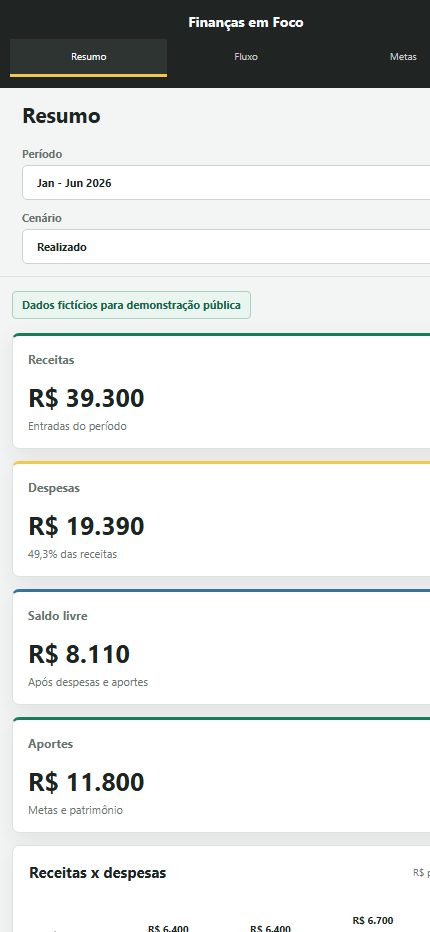
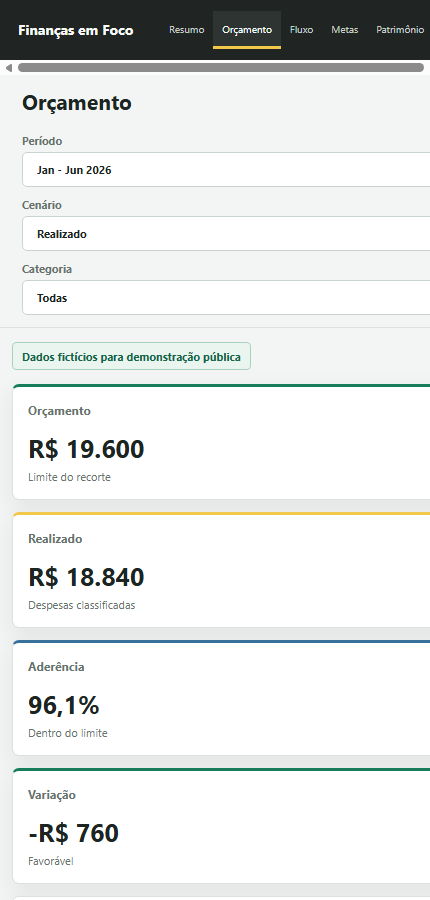
feat: ampliar experiencia do dashboard financeiro

Changed region(s): [[0.0, 0.0, 1.0, 1.0]]

diff --git a/demo/dashboard_demo.html b/demo/dashboard_demo.html
@@ -434,6 +434,41 @@
       font-size: 21px;
     }
     .allocation-item span { color: var(--muted); font-size: 11px; }
+    .subtle { color: var(--muted); font-size: 12px; }
+    .budget-list { display: grid; gap: 15px; }
+    .budget-row { display: grid; grid-template-columns: minmax(130px, 1.2fr) 3fr 92px; gap: 12px; align-items: center; }
+    .budget-row strong { font-size: 12px; }
+    .budget-track { height: 12px; overflow: hidden; border-radius: 3px; background: #e3e8e5; }
+    .budget-fill { height: 100%; background: var(--green); }
+    .budget-fill.warn { background: var(--yellow); }
+    .budget-fill.bad { background: var(--red); }
+    .budget-value { text-align: right; font-size: 12px; font-weight: 750; }
+    .metric-table { width: 100%; border-collapse: collapse; font-size: 12px; }
+    .metric-table th { padding: 10px 9px; color: var(--muted); border-bottom: 1px solid var(--line); text-align: left; }
+    .metric-table td { padding: 11px 9px; border-bottom: 1px solid var(--line); }
+    .metric-table tr:hover td { background: #f7faf8; }
+    .status { display: inline-flex; padding: 3px 7px; border-radius: 3px; color: #126047; background: var(--green-soft); font-size: 10px; font-weight: 750; }
+    .status.warn { color: #795d00; background: #fff2bd; }
+    .status.bad { color: #8c3333; background: #f7dede; }
+    .wealth-grid { display: grid; grid-template-columns: repeat(3, minmax(130px, 1fr)); gap: 10px; }
+    .wealth-item { padding: 14px; border: 1px solid var(--line); border-left: 4px solid var(--tone, var(--green)); border-radius: 5px; background: var(--light); }
+    .wealth-item span { color: var(--muted); font-size: 11px; }
+    .wealth-item strong { display: block; margin-top: 6px; font-size: 19px; }
+    .line-box { min-width: 620px; height: 248px; position: relative; border-bottom: 1px solid var(--line); }
+    .line-box svg { width: 100%; height: 210px; overflow: visible; }
+    .line-grid { stroke: #dce2df; stroke-width: 1; }
+    .line-segment { stroke: var(--green); stroke-width: 3; }
+    .line-point { fill: #fff; stroke: var(--green); stroke-width: 3; }
+    .line-label { fill: var(--text); font-size: 11px; font-weight: 700; }
+    .line-months { display: grid; grid-template-columns: repeat(6, 1fr); color: var(--muted); font-size: 11px; text-align: center; }
+    .comparison-strip { display: grid; grid-template-columns: 1.1fr repeat(3, 1fr); gap: 1px; margin-bottom: 14px; overflow: hidden; border: 1px solid var(--line); border-radius: 6px; background: var(--line); }
+    .comparison-strip > div { padding: 13px 15px; background: #fff; }
+    .comparison-strip .comparison-title { display: grid; align-content: center; color: #fff; background: var(--surface-dark); font-weight: 750; }
+    .comparison-strip span { display: block; color: var(--muted); font-size: 10px; text-transform: uppercase; }
+    .comparison-strip strong { display: block; margin-top: 5px; font-size: 17px; }
+    .delta-up { color: var(--green); }
+    .delta-down { color: var(--red); }
+    .filter select { cursor: pointer; }
     [hidden] { display: none !important; }
     @media (max-width: 1050px) {
       .kpis { grid-template-columns: repeat(2, 1fr); }
@@ -446,15 +481,18 @@
         z-index: 30;
         width: 100%;
         height: auto;
-        display: grid;
-        grid-template-columns: 1fr repeat(3, auto);
+        display: flex;
         align-items: center;
         padding: 8px 10px;
+        overflow-x: auto;
+        scrollbar-width: none;
       }
-      .brand { padding: 5px 8px; font-size: 14px; }
+      .side::-webkit-scrollbar { display: none; }
+      .brand { min-width: 170px; padding: 5px 8px; font-size: 14px; }
       .brand small, .side-note { display: none; }
       .nav {
         width: auto;
+        flex: 0 0 auto;
         min-height: 38px;
         padding: 8px 9px;
         border-left: 0;
@@ -472,16 +510,20 @@
       .donut-wrap { grid-template-columns: 1fr; justify-items: center; }
       .category-list { width: 100%; }
       .allocation { grid-template-columns: 1fr; }
+      .wealth-grid { grid-template-columns: 1fr 1fr; }
+      .comparison-strip { grid-template-columns: 1fr 1fr; }
+      .comparison-strip .comparison-title { grid-column: 1 / -1; }
     }
     @media (max-width: 600px) {
-      .side { grid-template-columns: repeat(3, 1fr); }
-      .brand { grid-column: 1 / -1; text-align: center; }
+      .brand { min-width: 150px; text-align: left; }
       .filters { flex-direction: column; align-items: stretch; }
       .kpis { grid-template-columns: 1fr; }
       .kpi { min-height: 96px; }
       .monthly-chart { min-width: 620px; }
       .scroll-x { overflow-x: auto; }
       .transactions { min-width: 640px; }
+      .budget-row { grid-template-columns: minmax(100px, 1fr) 1.5fr 78px; gap: 7px; }
+      .wealth-grid { grid-template-columns: 1fr; }
     }
   </style>
 </head>
@@ -490,8 +532,11 @@
     <aside class="side">
       <div class="brand">Finanças em Foco<small>DEMONSTRAÇÃO ANALÍTICA</small></div>
       <button class="nav active" data-view="resumo">Resumo</button>
+      <button class="nav" data-view="orcamento">Orçamento</button>
       <button class="nav" data-view="fluxo">Fluxo</button>
       <button class="nav" data-view="metas">Metas</button>
+      <button class="nav" data-view="patrimonio">Patrimônio</button>
+      <button class="nav" data-view="comparativo">Comparativo</button>
       <div class="side-note">Projeto demonstrativo com dados integralmente fictícios.</div>
     </aside>
 
@@ -514,6 +559,16 @@
             <select id="scenario">
               <option value="REALIDADE">Realizado</option>
               <option value="EXPECTATIVA">Planejado</option>
+            </select>
+          </label>
+          <label class="filter">Categoria
+            <select id="categoryFilter">
+              <option value="todas">Todas</option>
+              <option value="Moradia">Moradia</option>
+              <option value="Alimentação">Alimentação</option>
+              <option value="Transporte">Transporte</option>
+              <option value="Saúde e bem-estar">Saúde e bem-estar</option>
+              <option value="Outros">Outros</option>
             </select>
           </label>
         </div>
@@ -553,6 +608,25 @@
           </div>
         </section>
 
+        <section class="view" id="orcamento" hidden>
+          <div class="kpis" id="budgetKpis"></div>
+          <div class="grid">
+            <article class="panel">
+              <div class="panel-head"><h2>Orçamento por categoria</h2><span>realizado sobre o limite</span></div>
+              <div class="budget-list" id="budgetList"></div>
+            </article>
+            <article class="panel">
+              <div class="panel-head"><h2>Aderência mensal</h2><span>orçado x realizado</span></div>
+              <div class="scroll-x"><div class="monthly-chart" id="budgetChart"></div></div>
+              <div class="legend"><span><i class="dot" style="background:var(--green)"></i>Orçado</span><span><i class="dot" style="background:var(--yellow)"></i>Realizado</span></div>
+            </article>
+          </div>
+          <article class="panel">
+            <div class="panel-head"><h2>Mapa de variações</h2><span>priorização para decisão</span></div>
+            <div class="scroll-x"><table class="metric-table"><thead><tr><th>Categoria</th><th class="num">Orçado</th><th class="num">Realizado</th><th class="num">Variação</th><th>Status</th></tr></thead><tbody id="budgetTable"></tbody></table></div>
+          </article>
+        </section>
+
         <section class="view" id="fluxo" hidden>
           <div class="kpis" id="flowKpis"></div>
           <article class="panel">
@@ -576,6 +650,39 @@
             <article class="panel">
               <div class="panel-head"><h2>Aportes por objetivo</h2><span>R$ acumulado</span></div>
               <div class="monthly-chart" id="goalBars"></div>
+            </article>
+          </div>
+        </section>
+
+        <section class="view" id="patrimonio" hidden>
+          <div class="kpis" id="wealthKpis"></div>
+          <div class="grid">
+            <article class="panel">
+              <div class="panel-head"><h2>Evolução patrimonial</h2><span>saldo acumulado</span></div>
+              <div class="scroll-x" id="wealthTrend"></div>
+            </article>
+            <article class="panel">
+              <div class="panel-head"><h2>Alocação por classe</h2><span>composição atual</span></div>
+              <div class="wealth-grid" id="wealthAllocation"></div>
+            </article>
+          </div>
+          <article class="panel">
+            <div class="panel-head"><h2>Posições consolidadas</h2><span>carteira demonstrativa</span></div>
+            <div class="scroll-x"><table class="metric-table"><thead><tr><th>Classe</th><th>Objetivo</th><th class="num">Saldo</th><th class="num">Participação</th><th>Liquidez</th></tr></thead><tbody id="wealthTable"></tbody></table></div>
+          </article>
+        </section>
+
+        <section class="view" id="comparativo" hidden>
+          <div class="comparison-strip" id="comparisonStrip"></div>
+          <div class="kpis" id="comparisonKpis"></div>
+          <div class="grid equal">
+            <article class="panel">
+              <div class="panel-head"><h2>Resultado mês a mês</h2><span>receitas menos despesas</span></div>
+              <div class="scroll-x"><div class="monthly-chart" id="resultChart"></div></div>
+            </article>
+            <article class="panel">
+              <div class="panel-head"><h2>Taxa de poupança</h2><span>percentual da receita</span></div>
+              <div class="scroll-x" id="savingTrend"></div>
             </article>
           </div>
         </section>
@@ -622,6 +729,20 @@
       {name:"Viagem", target:8000, actual:4200},
       {name:"Especialização", target:5000, actual:3150}
     ];
+    const budget = [
+      {name:"Moradia", planned:6900, actual:6400},
+      {name:"Alimentação", planned:4500, actual:4680},
+      {name:"Transporte", planned:3900, actual:3540},
+      {name:"Saúde e bem-estar", planned:2200, actual:2480},
+      {name:"Outros", planned:2100, actual:1740}
+    ];
+    const wealth = [
+      {name:"Reserva líquida", objective:"Emergência", value:7350, liquidity:"Imediata", color:"#167d5a"},
+      {name:"Renda fixa", objective:"Médio prazo", value:11680, liquidity:"D+1", color:"#39719d"},
+      {name:"Renda variável", objective:"Longo prazo", value:6240, liquidity:"D+2", color:"#f2c84b"},
+      {name:"Metas dedicadas", objective:"Projetos", value:7350, liquidity:"Programada", color:"#8d9993"}
+    ];
+    const wealthHistory = [23500, 25100, 26800, 28700, 30600, 32620];
     const brl = value => new Intl.NumberFormat("pt-BR", {style:"currency", currency:"BRL", maximumFractionDigits:0}).format(value);
     const pct = value => new Intl.NumberFormat("pt-BR", {style:"percent", maximumFractionDigits:1}).format(value || 0);
     const sum = (rows, key) => rows.reduce((total, row) => total + row[key], 0);
@@ -710,6 +831,75 @@
           style="height:${row.actual / max * 100}%" title="${row.name}: ${brl(row.actual)}"><span>${brl(row.actual)}</span></div>
         </div><div class="month-label">${row.name}</div></div>`).join("");
     }
+    function lineChart(values, labels, formatter) {
+      const width = 680, height = 190, padX = 42, padY = 28;
+      const min = Math.min(...values), max = Math.max(...values, min + 1);
+      const points = values.map((value, index) => ({
+        value,
+        x: padX + index * ((width - padX * 2) / Math.max(values.length - 1, 1)),
+        y: height - padY - ((value - min) / (max - min)) * (height - padY * 2)
+      }));
+      const segments = points.slice(1).map((point, index) => `<line class="line-segment" x1="${points[index].x}" y1="${points[index].y}" x2="${point.x}" y2="${point.y}"></line>`).join("");
+      return `<div class="line-box"><svg viewBox="0 0 ${width} ${height}" role="img" aria-label="Evolução mensal">
+        <line class="line-grid" x1="${padX}" y1="45" x2="${width-padX}" y2="45"></line>
+        <line class="line-grid" x1="${padX}" y1="95" x2="${width-padX}" y2="95"></line>
+        <line class="line-grid" x1="${padX}" y1="145" x2="${width-padX}" y2="145"></line>${segments}
+        ${points.map(point => `<circle class="line-point" cx="${point.x}" cy="${point.y}" r="5"></circle><text class="line-label" x="${point.x}" y="${Math.max(14, point.y-13)}" text-anchor="middle">${formatter(point.value)}</text>`).join("")}
+      </svg><div class="line-months">${labels.map(label => `<span>${label}</span>`).join("")}</div></div>`;
+    }
+    function renderBudget() {
+      const selected = document.querySelector("#categoryFilter").value;
+      const rows = selected === "todas" ? budget : budget.filter(row => row.name === selected);
+      const plannedTotal = sum(rows, "planned"), actualTotal = sum(rows, "actual"), variance = actualTotal - plannedTotal;
+      const adherence = plannedTotal ? actualTotal / plannedTotal : 0;
+      document.querySelector("#budgetKpis").innerHTML =
+        kpi("Orçamento", brl(plannedTotal), "Limite do recorte") +
+        kpi("Realizado", brl(actualTotal), "Despesas classificadas", "yellow") +
+        kpi("Aderência", pct(adherence), adherence > 1 ? "Acima do limite" : "Dentro do limite", adherence > 1 ? "red" : "blue") +
+        kpi("Variação", brl(variance), variance > 0 ? "Desfavorável" : "Favorável", variance > 0 ? "red" : "");
+      document.querySelector("#budgetList").innerHTML = rows.map(row => {
+        const rate = row.actual / row.planned;
+        return `<div class="budget-row"><strong>${row.name}</strong><div class="budget-track"><div class="budget-fill ${rate > 1.08 ? "bad" : rate > 1 ? "warn" : ""}" style="width:${Math.min(100,rate*100)}%"></div></div><div class="budget-value">${pct(rate)}</div></div>`;
+      }).join("");
+      const monthlyBudget = monthly.map(row => row.expense * .97);
+      const max = Math.max(...monthly.flatMap((row, index) => [row.expense, monthlyBudget[index]]));
+      document.querySelector("#budgetChart").innerHTML = monthly.map((row,index) => `<div class="month"><div class="bars"><div class="bar income" style="height:${monthlyBudget[index]/max*100}%"><span>${brl(monthlyBudget[index])}</span></div><div class="bar expense" style="height:${row.expense/max*100}%"><span>${brl(row.expense)}</span></div></div><div class="month-label">${row.label}</div></div>`).join("");
+      document.querySelector("#budgetTable").innerHTML = rows.map(row => {
+        const delta = row.actual - row.planned, rate = row.actual / row.planned;
+        const cls = rate > 1.08 ? "bad" : rate > 1 ? "warn" : "";
+        const label = rate > 1.08 ? "Revisar" : rate > 1 ? "Atenção" : "Controlado";
+        return `<tr><td>${row.name}</td><td class="num">${brl(row.planned)}</td><td class="num">${brl(row.actual)}</td><td class="num" style="color:${delta>0?'var(--red)':'var(--green)'}">${brl(delta)}</td><td><span class="status ${cls}">${label}</span></td></tr>`;
+      }).join("");
+    }
+    function renderWealth() {
+      const total = sum(wealth, "value"), growth = wealthHistory.at(-1) / wealthHistory[0] - 1;
+      document.querySelector("#wealthKpis").innerHTML =
+        kpi("Patrimônio", brl(total), "Saldo consolidado") +
+        kpi("Crescimento", pct(growth), "No período analisado", "blue") +
+        kpi("Liquidez imediata", brl(wealth[0].value), pct(wealth[0].value/total) + " da carteira") +
+        kpi("Classes", wealth.length.toLocaleString("pt-BR"), "Diversificação monitorada", "yellow");
+      document.querySelector("#wealthTrend").innerHTML = lineChart(wealthHistory, monthly.map(row=>row.label), brl);
+      document.querySelector("#wealthAllocation").innerHTML = wealth.map(row => `<div class="wealth-item" style="--tone:${row.color}"><span>${row.name}</span><strong>${brl(row.value)}</strong><span>${pct(row.value/total)} da carteira</span></div>`).join("");
+      document.querySelector("#wealthTable").innerHTML = wealth.map(row => `<tr><td><strong>${row.name}</strong></td><td>${row.objective}</td><td class="num">${brl(row.value)}</td><td class="num">${pct(row.value/total)}</td><td><span class="status">${row.liquidity}</span></td></tr>`).join("");
+    }
+    function renderComparison() {
+      const current = monthly.at(-1), previous = monthly.at(-2);
+      const result = row => row.income-row.expense-row.goals-row.assets;
+      const delta = (a,b) => b ? a/b-1 : 0;
+      document.querySelector("#comparisonStrip").innerHTML = `<div class="comparison-title">Junho x Maio de 2026</div>
+        <div><span>Receitas</span><strong class="delta-up">${pct(delta(current.income,previous.income))} ↑</strong></div>
+        <div><span>Despesas</span><strong class="delta-down">${pct(delta(current.expense,previous.expense))} ↑</strong></div>
+        <div><span>Resultado</span><strong class="${result(current)>=result(previous)?'delta-up':'delta-down'}">${pct(delta(result(current),result(previous)))}</strong></div>`;
+      const results = monthly.map(result), savings = monthly.map(row => Math.max(0,result(row))/row.income);
+      document.querySelector("#comparisonKpis").innerHTML =
+        kpi("Melhor resultado", brl(Math.max(...results)), monthly[results.indexOf(Math.max(...results))].label) +
+        kpi("Resultado acumulado", brl(results.reduce((a,b)=>a+b,0)), "Saldo livre em seis meses", "blue") +
+        kpi("Poupança média", pct(savings.reduce((a,b)=>a+b,0)/savings.length), "Sobre as receitas") +
+        kpi("Despesa média", brl(sum(monthly,"expense")/monthly.length), "Média mensal", "yellow");
+      const max = Math.max(...results);
+      document.querySelector("#resultChart").innerHTML = monthly.map((row,index)=>`<div class="month"><div class="bars"><div class="bar income" style="height:${Math.max(3,results[index]/max*100)}%"><span>${brl(results[index])}</span></div></div><div class="month-label">${row.label}</div></div>`).join("");
+      document.querySelector("#savingTrend").innerHTML = lineChart(savings,monthly.map(row=>row.label),pct);
+    }
     function activate(view) {
       const target = document.querySelector(`.nav[data-view="${view}"]`) || document.querySelector(".nav");
       document.querySelectorAll(".nav").forEach(item => item.classList.toggle("active", item === target));
@@ -722,11 +912,14 @@
     }
     document.querySelectorAll(".nav").forEach(button => button.addEventListener("click", () => activate(button.dataset.view)));
     document.querySelectorAll("select").forEach(select => select.addEventListener("change", () => {
-      renderSummary(); renderFlow(); renderGoals();
+      renderSummary(); renderBudget(); renderFlow(); renderGoals(); renderWealth(); renderComparison();
     }));
     renderSummary();
+    renderBudget();
     renderFlow();
     renderGoals();
+    renderWealth();
+    renderComparison();
     activate(new URL(location.href).searchParams.get("view") || "resumo");
   </script>
 </body>

diff --git a/README.md b/README.md
@@ -10,16 +10,18 @@ O projeto combina modelagem, DAX, storytelling e governança para organizar info
 
 [Abrir demonstração interativa](https://nnathanvieira.github.io/dashboard-financeiro-power-bi/demo/dashboard_demo.html)
 
-A experiência permite navegar entre resumo, fluxo e metas, alterar período e cenário e observar a atualização dos indicadores. Os valores e lançamentos são totalmente fictícios.
+A experiência permite navegar por seis áreas analíticas: Resumo, Orçamento, Fluxo, Metas, Patrimônio e Comparativo. Os filtros de período, cenário e categoria atualizam os indicadores, e todos os valores e lançamentos são fictícios.
 
-| Resumo financeiro | Fluxo de lançamentos |
+| Resumo financeiro | Controle orçamentário |
 | --- | --- |
-| ![Resumo financeiro demonstrativo](assets/demo-resumo.png) | ![Fluxo financeiro demonstrativo](assets/demo-fluxo.png) |
+| ![Resumo financeiro demonstrativo](assets/demo-resumo.png) | ![Orçamento por categoria](assets/demo-orcamento.png) |
 
 <details>
-<summary>Metas e visualização responsiva</summary>
+<summary>Patrimônio, comparativo e visualização responsiva</summary>
 
-![Acompanhamento demonstrativo de metas](assets/demo-metas.png)
+![Evolução patrimonial demonstrativa](assets/demo-patrimonio.png)
+
+![Comparativo financeiro demonstrativo](assets/demo-comparativo.png)
 
 ![Dashboard financeiro em tela móvel](assets/demo-mobile.png)
 